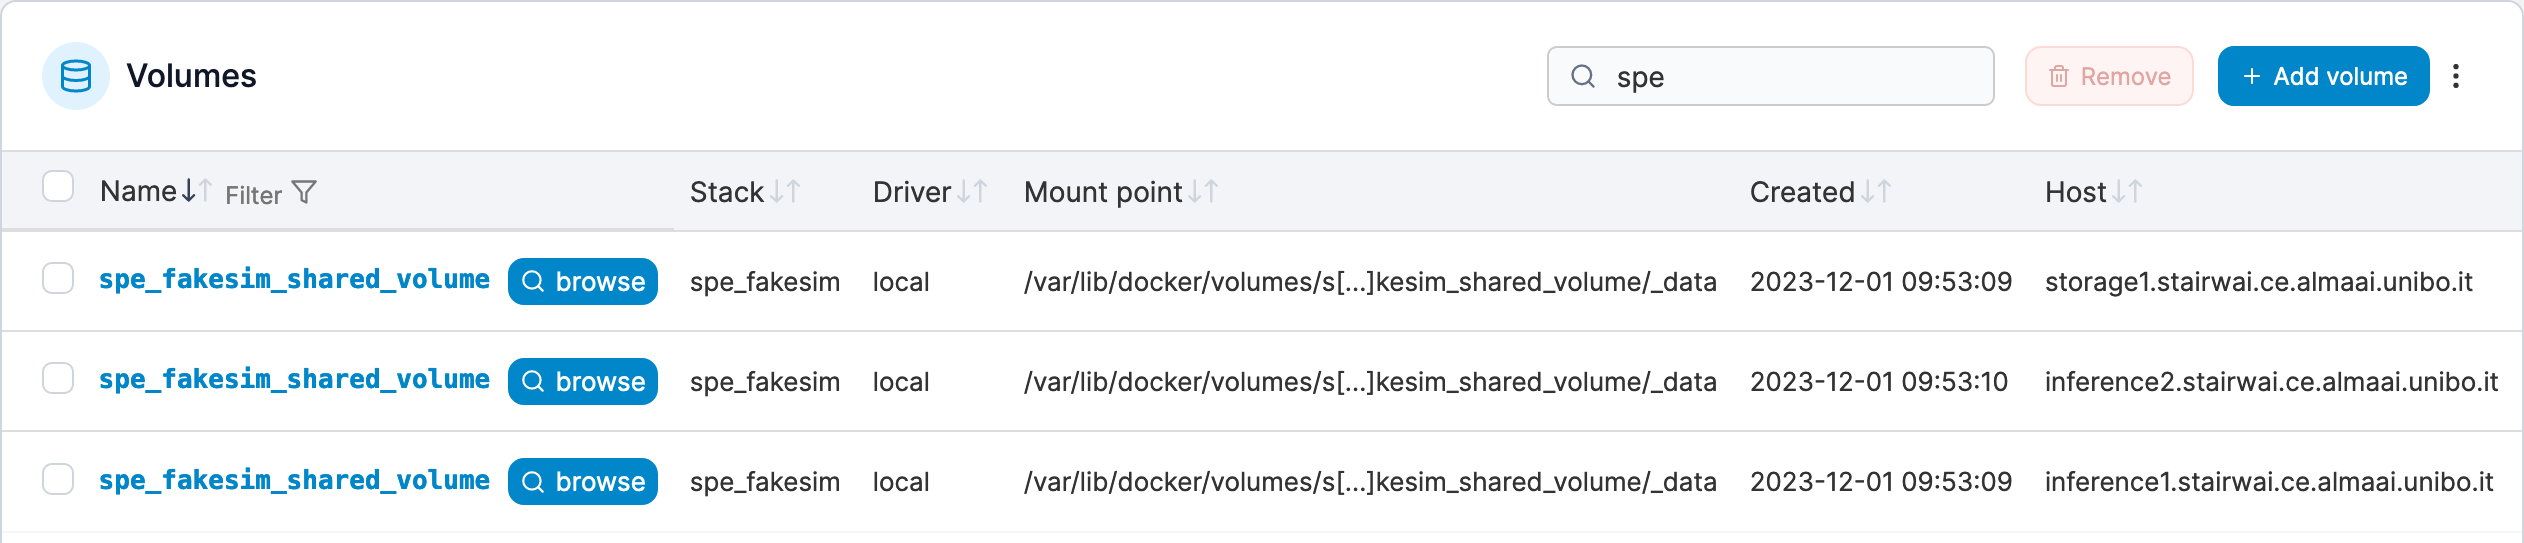
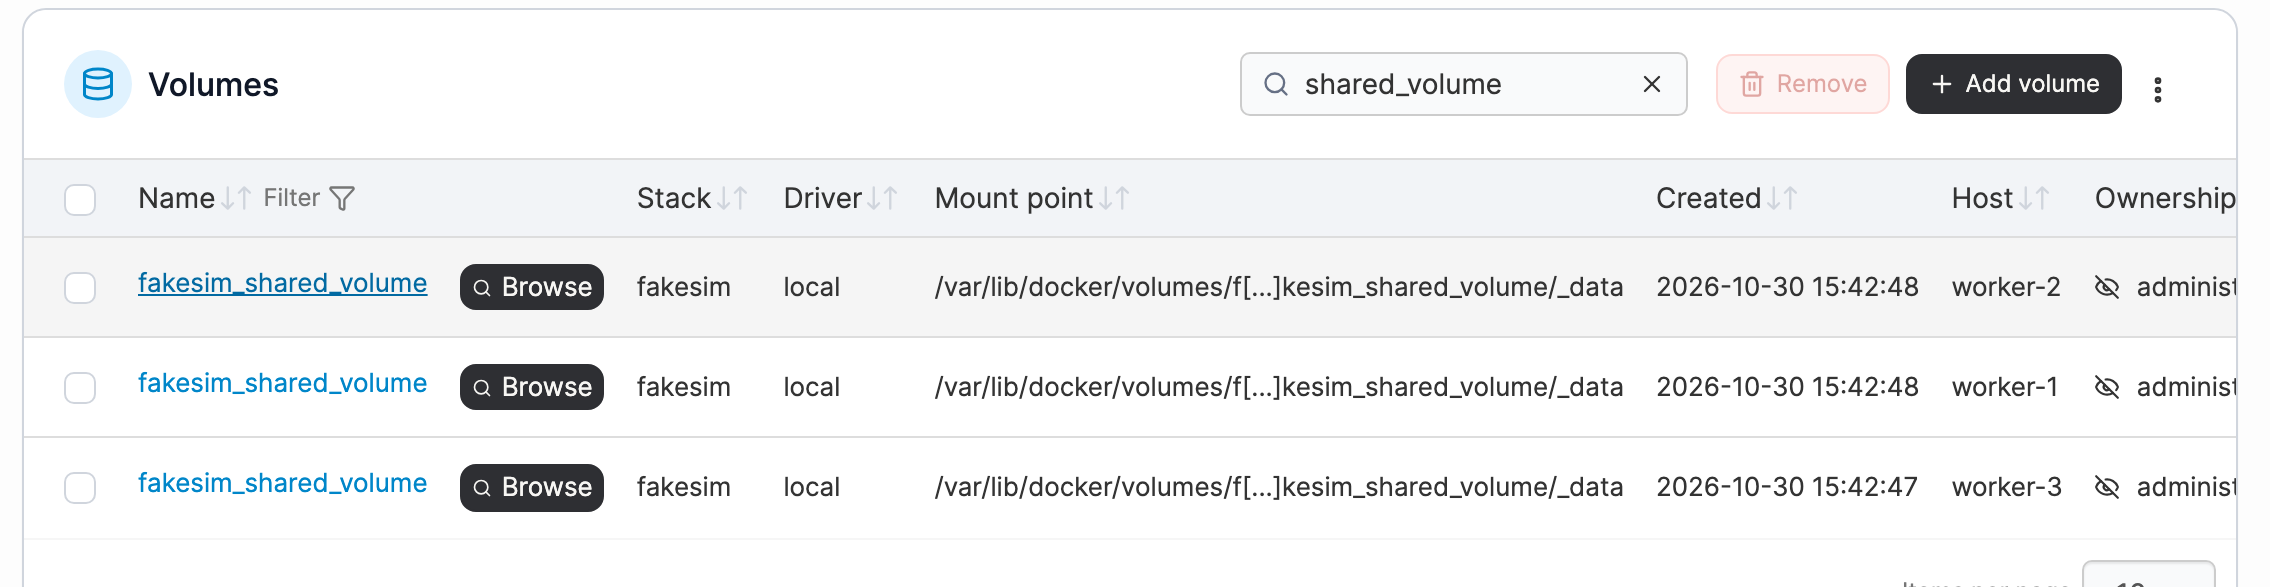
feat(containerization): local Docker-in-Docker Swarm for the orchestration part
Add slides on building a 4-node Swarm (master, worker-1..3) out of
docker:dind containers, with a disclaimer motivating DinD as a
reproducible didactical environment. A socat gateway relays published
ports to master, since Docker Desktop's port forwarding breaks the
routing mesh of nested daemons. Portainer and the replication/volume
examples now rely on this Swarm; screenshots retaken accordingly.

diff --git a/content/09-containerization/_index.md b/content/09-containerization/_index.md
@@ -2626,7 +2626,119 @@ Repository: <https://github.com/unibo-spe/containerized-experiment>
 
 ---
 
-## Building the cluster (practice)
+{{< slide id="swarm-dind" >}}
+
+## A local Swarm via Docker-in-Docker
+
+> __Disclaimer__: in this lecture, the Swarm cluster is made of [Docker-in-Docker](#/networks) (DinD) containers, all running on _your own_ machine
+
+- Each __node__ is a `docker:dind` container, i.e. a _full_ Docker daemon, with its own images, containers, volumes, and networks
+    + nodes see each other via a Compose network, and they are reachable by _symbolic_ hostname (`master`, `worker-1`, ...)
+
+- Why? DinD is the __smoother__ way to obtain a __reproducible__ and __stable__ _didactical_ environment:
+    + _same_ cluster for everybody, regardless of OS (Linux, Mac, Windows) and of Docker flavour (Engine, Desktop)
+    + _no_ firewalls, VMs, or port forwarding in the way (cf. [troubleshooting](#/swarm-troubleshooting) for real machines)
+    + _no_ need for several machines, nor for a working LAN in the classroom
+    + _disposable_: the cluster is created and destroyed with one command, your own Docker daemon is left untouched
+
+- Caveats:
+    + nodes are __privileged__ containers $\Rightarrow$ fine for a playground, _not_ for production
+    + all nodes share the _same_ hardware $\Rightarrow$ no real scalability or fault-tolerance (but the _semantics_ is the same)
+    + each node has its _own_ image cache $\Rightarrow$ images are pulled once _per node_
+
+---
+
+## A local Swarm via Docker-in-Docker (pt. 2)
+
+{{< multicol >}}
+{{% col class="col-5" %}}
+```yaml
+x-node: &node
+  image: docker:dind
+  privileged: true
+  environment:
+    DOCKER_TLS_CERTDIR: "" # plain TCP on port 2375
+
+services:
+  master:
+    <<: *node
+    hostname: master
+    ports:
+      - "127.0.0.1:2375:2375" # Docker API
+  worker-1:
+    <<: *node
+    hostname: worker-1
+  worker-2: ...                # same as worker-1
+  worker-3: ...                # same as worker-1
+  gateway:
+    image: alpine/socat
+    entrypoint: ["sh", "-c"]
+    command:
+      - |
+        for port in 9443 8890; do
+          socat TCP-LISTEN:$$port,fork,reuseaddr \
+                TCP:master:$$port &
+        done
+        wait
+    ports:
+      - "9443:9443"           # Portainer
+      - "8890:8890"           # later examples
+```
+(full file [here](./swarm-dind.yaml))
+{{% /col %}}
+{{% col class="col-7" %}}
+- A __Compose__ file describing a cluster of _4 nodes_: `master` + 3 _workers_
+    + `x-node` is a YAML _anchor_, i.e. the settings shared by all nodes, merged into each service via `<<: *node`
+    + `hostname` gives each node its _symbolic_ name in the cluster
+
+- `master` publishes port `2375`, i.e. its __Docker API__, so that the CLI on your machine can act as a _client of the manager_
+    + bound to `127.0.0.1` only, as it is unauthenticated!
+
+- `gateway` publishes the ports of the _services_ deployed later on the Swarm
+    + it simply _relays_ each TCP connection to the same port of `master` (via [`socat`](https://linux.die.net/man/1/socat))
+    + then the [routing mesh](#/routing-mesh) forwards it to the node actually running the service
+    + why not publishing them on `master` directly? Docker Desktop's port forwarding produces packets that the routing mesh of a _nested_ daemon drops, when the service runs on another node
+        * `gateway` opens _fresh_ connections, which are handled correctly
+{{% /col %}}
+{{< /multicol >}}
+
+---
+
+## A local Swarm via Docker-in-Docker (pt. 3)
+
+1. Save the file of the previous slide as `compose.yaml`, in an empty directory, and start the nodes:
+    ```bash
+    docker compose up -d
+    ```
+    + wait a few seconds for the daemons to start (`docker compose logs master` should say `API listen on [::]:2375`)
+
+2. __Initialise__ Swarm mode on `master`, and let the workers __join__ the cluster:
+    ```bash
+    docker compose exec master docker swarm init
+    TOKEN=$(docker compose exec master docker swarm join-token -q worker)
+    for i in 1 2 3; do
+        docker compose exec worker-$i docker swarm join --token $TOKEN master:2377
+    done
+    ```
+
+3. Let your Docker CLI __connect to `master`__ (rather than to your local daemon), in the current shell:
+    + `export DOCKER_HOST=tcp://localhost:2375` (Bash) or `$env:DOCKER_HOST="tcp://localhost:2375"` (PowerShell)
+    + from now on, _all_ `docker` commands (e.g. `docker node ls`, `docker stack deploy`) are executed by `master`:
+        ```
+        ID                            HOSTNAME   STATUS    AVAILABILITY   MANAGER STATUS   ENGINE VERSION
+        h7kxqxjgxqnr5bc4zp4pxfsgc *   master     Ready     Active         Leader           29.9.2
+        9ig5gfqmiwslf637gzidl9y6d     worker-1   Ready     Active                          29.9.2
+        mlipjs2czcoapauecp1haswlf     worker-2   Ready     Active                          29.9.2
+        7or20sft5peegyexrb1m9yuax     worker-3   Ready     Active                          29.9.2
+        ```
+
+4. Whenever done, __destroy__ the cluster: `unset DOCKER_HOST` (or `Remove-Item Env:DOCKER_HOST`), then `docker compose down -v`
+
+---
+
+## Building the cluster on real machines
+
+> Not needed for this lecture (cf. [DinD Swarm](#/swarm-dind)), but this is how a _real_ cluster is built
 
 1. On one node running the Docker daemon (say, the teacher's machine), initialise Swarm mode as follows:
     * `docker swarm init`
@@ -2657,10 +2769,12 @@ Repository: <https://github.com/unibo-spe/containerized-experiment>
     * and it may __demote__ manager nodes to worker nodes via `docker node demote <NODE_ID>`
     * it also may __remove__ nodes from the cluster via `docker node rm <NODE_ID>`
 
-5. Whenever done with this lecture, one may leave the Swarm via `docker swarm leave --force`
-    + _remember to do this after the lecture_, otherwise you won't be able to use Swarm at home!
+5. Whenever done, one may leave the Swarm via `docker swarm leave --force`
+    + _remember to do this_, otherwise you won't be able to use Swarm elsewhere!
 
 ---
+
+{{< slide id="swarm-troubleshooting" >}}
 
 ## Building the cluster (troubleshooting)
 
@@ -2799,9 +2913,7 @@ services:
     image: portainer/portainer-ce:lts
     command: -H tcp://tasks.agent:9001 --tlsskipverify
     ports:
-      - "443:9443"
-      - "9000:9000"
-      - "8000:8000"
+      - "9443:9443"
     volumes:
       - portainer_data:/data
     networks:
@@ -2834,9 +2946,10 @@ volumes:
 
 1. Let's save the code on the left in a file named `portainer.yml`
 
-2. Let's deploy the stack via `docker stack deploy -c portainer.yml portainer`
+2. Let's deploy the stack on the [DinD Swarm](#/swarm-dind) (i.e. with `DOCKER_HOST` pointing to `master`) via `docker stack deploy -c portainer.yml portainer`
 
-3. Let's then browse to <https://localhost> on some manager node
+3. Let's then browse to <https://localhost:9443> (via `gateway`)
+    + the certificate is _self-signed_: accept it
 {{% /col %}}
 {{< /multicol >}}
 
@@ -2844,9 +2957,24 @@ volumes:
 
 ## Portainer's Initial Configuration
 
-{{< figure src="./portainer-setup.png" alt="Portainer initial setup page, asking for the admin password" width="50%" >}}
+{{< multicol >}}
+{{% col class="col-5" %}}
+{{< figure src="./portainer-setup.png" alt="Portainer initial setup page, asking for the admin username, password, and setup token" width="100%" >}}
+{{% /col %}}
+{{% col class="col-7" %}}
+- let's use `software-process-engineering` as the password for the `admin` user
 
-let's use `software-process-engineering` as the password for the `admin` user
+- the __setup token__ is printed in the logs of the dashboard:
+    ```bash
+    docker service logs portainer_webservice | grep setup_token
+    ```
+
+- this page must be filled within _5 minutes_ from the deployment, otherwise Portainer locks itself
+    + if so, restart it via `docker service update --force portainer_webservice`
+
+- upon creation of the user, Portainer proposes to set up _Edge Compute_: let's just __skip__ it
+{{% /col %}}
+{{< /multicol >}}
 
 ---
 
@@ -2871,8 +2999,7 @@ Upon environment selection, one is presented with the _dashboard_, showing the _
 
 After selecting the only environment available, one may observe:
 - which and how many __nodes__ compose the cluster (_Dashboard_ section)
-    + you may use the _cluster visualiser_ to spot your machine in the cluster
-        * (assuming that you managed to join the cluster)
+    + you may use the _cluster visualiser_ to spot `master`, `worker-1`, `worker-2`, and `worker-3`
 
 - which __stacks__ are running on the cluster (_Services_ section)
     + you may observe that the `portainer` stack is running
@@ -2881,11 +3008,11 @@ After selecting the only environment available, one may observe:
     + you may observe that the `portainer` stack is composed of two services: `agent` and `webservice`
 
 - which __containers__ are running on the cluster (_Containers_ section)
-    + you may observe that the `portainer_agent` service is composed of _one container per node_
-    + you may observe that the `portainer_webservice` service is composed of _one container_ which is _running on some manager node_
+    + you may observe that the `portainer_agent` service is composed of _one container per node_ (i.e. 4 containers)
+    + you may observe that the `portainer_webservice` service is composed of _one container_ which is _running on_ `master` (the only manager)
 
 - which __volumes__ are present on the cluster (_Volumes_ section)
-    + you may observe that the `portainer_portainer_data` volume is present _on the same manager node_ of `portainer_webservice`
+    + you may observe that the `portainer_portainer_data` volume is present _on the same node_ of `portainer_webservice`, i.e. `master`
 
 - which __networks__ are present on the cluster (_Networks_ section)
     + you may observe that the `portainer_agents_network` network is present, using the `overlay` driver
@@ -2905,11 +3032,15 @@ After selecting the only environment available, one may observe:
         * e.g. `capabilities.storage=yes`
 
 - This can be done _programmatically_....
-    + e.g. via `docker node update --label-add KEY=VALUE NODE_ID`
+    + e.g. via `docker node update --label-add KEY=VALUE NODE` (where `NODE` is the node's ID or hostname)
+    + e.g. let's mark all workers of the [DinD Swarm](#/swarm-dind) as CPU-capable, for the next examples:
+        ```bash
+        for i in 1 2 3; do docker node update --label-add capabilities.cpu=yes worker-$i; done
+        ```
 
 - ... or via __Portainer__:
 
-    {{< figure src="./portainer-node-labels.png" alt="Portainer node details page, where labels can be added to a node" width="50%" >}}
+    {{< figure src="./portainer-node-labels.png" alt="Portainer node details page, where labels can be added to a node" width="35%" >}}
 
 - labels can be used to set _placement_ __constraints__ or __preferences__ for services:
     * placement _constraints_: one service can only be deployed onto nodes with given labels
@@ -2962,6 +3093,8 @@ networks:
 {{< /multicol >}}
 
 ---
+
+{{< slide id="routing-mesh" >}}
 
 ## Exposing ports on the Swarm
 
@@ -3046,7 +3179,7 @@ services:
 2. Try to query it multiple times:
     ```bash
     while true; do
-        curl http://<ANY_NODE_ADDRESS>:8890; 
+        curl http://localhost:8890; # published by master
         echo 
         sleep 1
     done
@@ -3074,7 +3207,7 @@ services:
     ```
 {{% /col %}}
 {{% col %}}
-1. Several replicas of the same service are created:
+1. Several replicas of the same service are created, spread over the CPU-capable nodes (i.e. the 3 workers):
     
     ![Portainer services view: 10 replicas of service ws spread over the nodes](./portainer-replicated-service.png)
 
@@ -3124,7 +3257,7 @@ volumes:
 
     ![Portainer volumes view: one shared_volume per node hosting a replica](./portainer-fake-simulation-volumes.png)
 
-    - one per replica, on the same node as the replica
+    - one per replica, on the same node as the replica (i.e. one on each worker of the [DinD Swarm](#/swarm-dind))
 
 3. How to share data? (cf. next slide)
 
